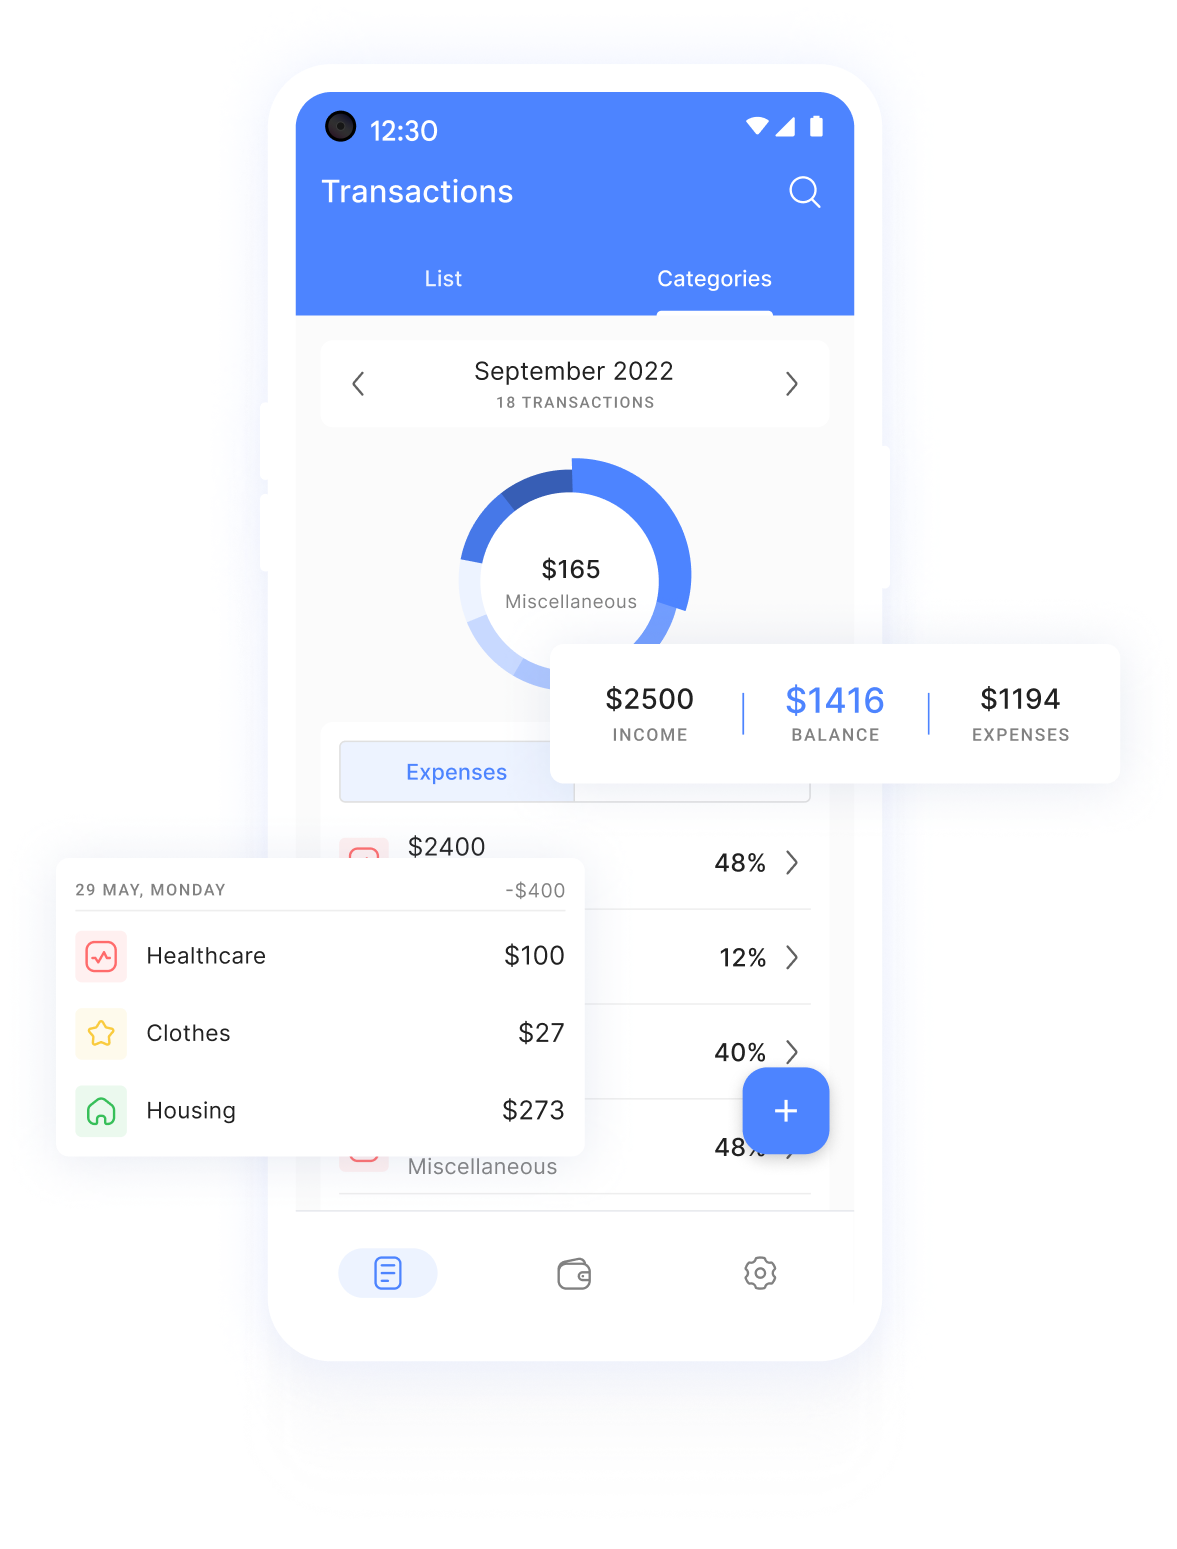
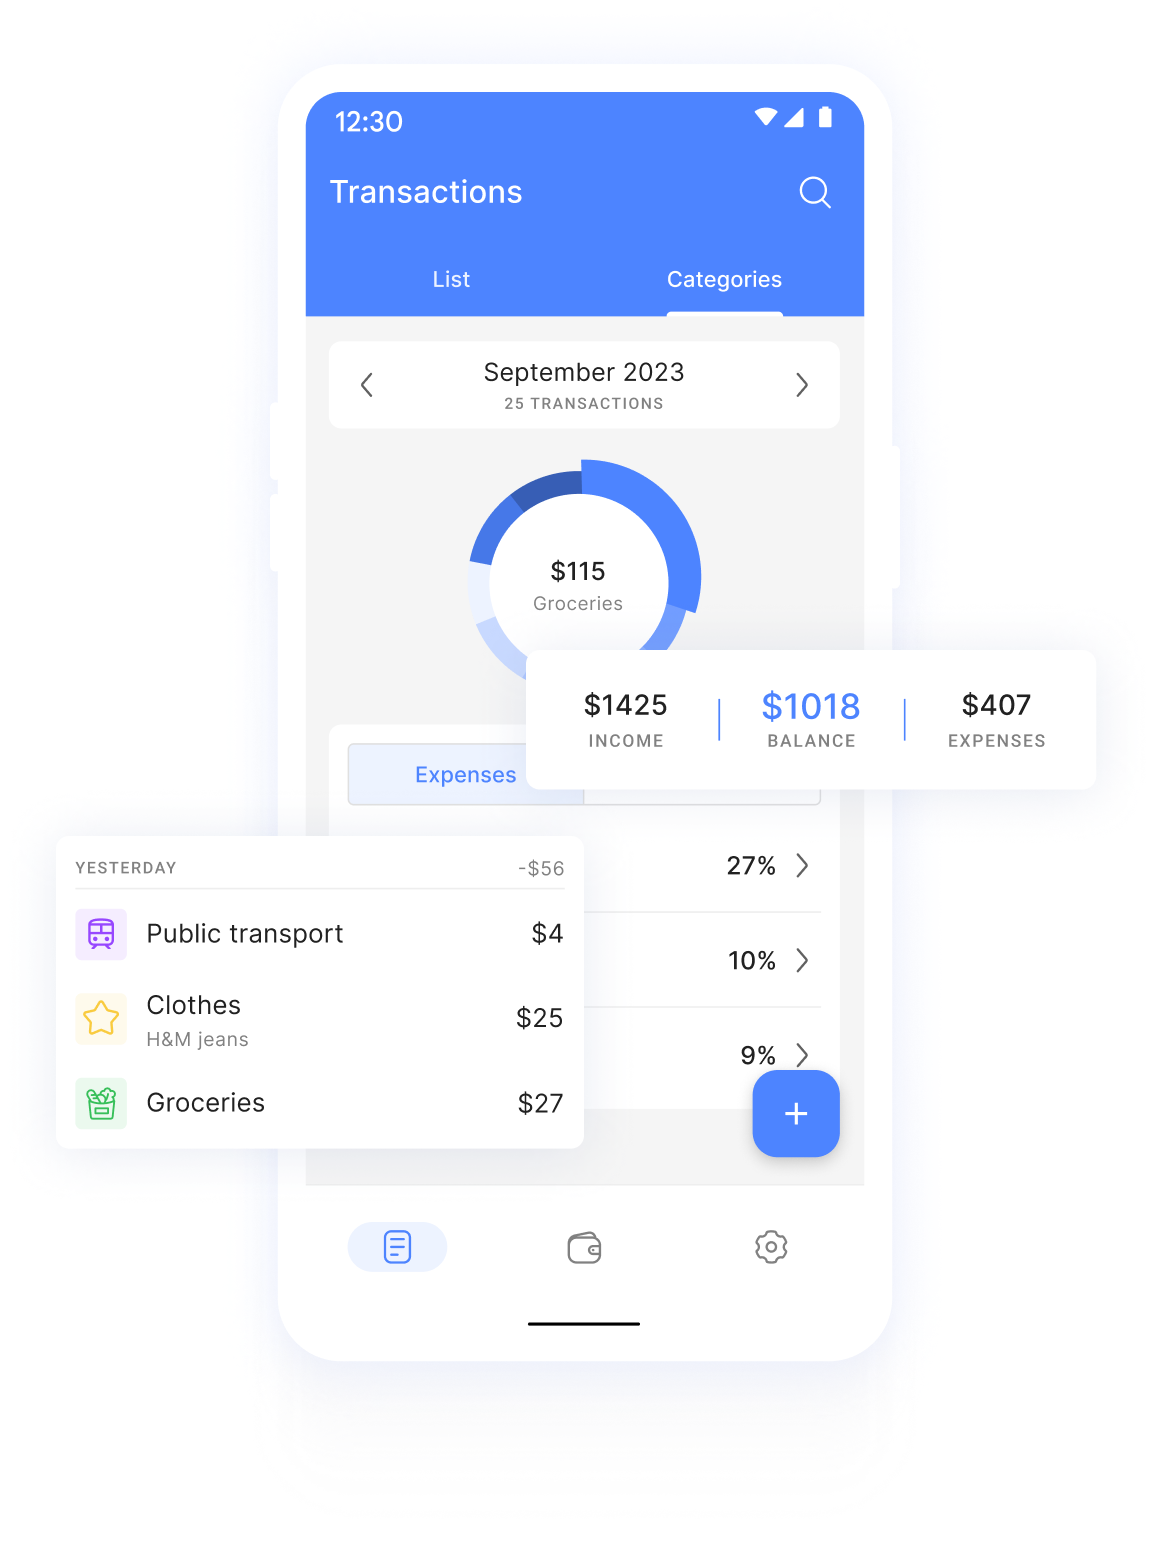
update illustrations

diff --git a/index.html b/index.html
@@ -1,5 +1,5 @@
 <!DOCTYPE html>
-<html>
+<html id="root">
 
 <link>
     <meta charset="UTF-8">
@@ -15,7 +15,7 @@
     <!-- Navigation bar -->
     <nav class="navigation-block">
         <div class="navigation-block-content">
-            <div class="logo-container"></div>
+            <a href="#root" class="logo-container"></a>
             <div class="navigation-container">
                 <a href="#about" class="navigation-link">About</a>
                 <a href="#features" class="navigation-link">Features</a>
@@ -52,9 +52,7 @@
             <div class="main-block-text">
                 <h1 class="main-block-title">Track your budget on the go</h1>
                 <span class="main-block-subtitle">Take control of your finances and stay on top of your budget with ease</span>
-                <div class="main-block-button">
-                    <img src="images/google_play.png" width="158"/>
-                </div>
+                <a class="main-block-button"></a>
             </div>
             <div class="main-block-image">
                 <img src="images/main_illustration.png"/>
@@ -134,7 +132,7 @@
                 </div>
                 
                 <div class="features-block-image">
-                    <img src="images/features_illustration.png"/>
+                    <img src="images/screenshot_4.png"/>
                 </div>
 
                 <div class="features-block-content-description">
@@ -191,34 +189,25 @@
         <div class="splide__track">
               <ul class="splide__list">
                 <li class="splide__slide">
-                    <img src="images/screenshot1.png">
+                    <img src="images/screenshot_1.png">
                 </li>
                 <li class="splide__slide">
-                    <img src="images/screenshot2.png">
+                    <img src="images/screenshot_2.png">
                 </li>
                 <li class="splide__slide">
-                    <img src="images/screenshot3.png">
+                    <img src="images/screenshot_3.png">
                 </li>
                 <li class="splide__slide">
-                    <img src="images/screenshot1.png">
+                    <img src="images/screenshot_4.png">
                 </li>
                 <li class="splide__slide">
-                    <img src="images/screenshot2.png">
+                    <img src="images/screenshot_5.png">
                 </li>
                 <li class="splide__slide">
-                    <img src="images/screenshot3.png">
+                    <img src="images/screenshot_6.png">
                 </li>
                 <li class="splide__slide">
-                    <img src="images/screenshot1.png">
-                </li>
-                <li class="splide__slide">
-                    <img src="images/screenshot2.png">
-                </li>
-                <li class="splide__slide">
-                    <img src="images/screenshot3.png">
-                </li>
-                <li class="splide__slide">
-                    <img src="images/screenshot1.png">
+                    <img src="images/screenshot_7.png">
                 </li>
             </ul>
         </div>
@@ -343,17 +332,17 @@
     <footer class="footer" id="contacts">
         <div class="footer-block">
             <div class="footer-content">
-                <img src="images/logo_text.svg" class="footer-logo"/>
+                <a href="#root" class="footer-logo"></a>
                 <div class="footer-menu">
-                    <a href="#about" class="footer-link">About</a>
-                    <a href="#features" class="footer-link">Features</a>
-                    <a href="#screenshot" class="footer-link">Screenshots</a>
-                    <a href="#pricing" class="footer-link">Pricing</a>
-                    <a href="#team" class="footer-link">Team</a>
-                    <a href="#contacts" class="footer-link">Contacts</a>
+                    <a href="#about" class="footer-navigation-link">About</a>
+                    <a href="#features" class="footer-navigation-link">Features</a>
+                    <a href="#screenshot" class="footer-navigation-link">Screenshots</a>
+                    <a href="#pricing" class="footer-navigation-link">Pricing</a>
+                    <a href="#team" class="footer-navigation-link">Team</a>
+                    <a href="#contacts" class="footer-navigation-link">Contacts</a>
                 </div>
                 <div class="footer-support-link">
-                    <a href="mailto: support@costline.app">
+                    <a href="mailto: support@costline.app" class="footer-support-link-text">
                         <img src="images/mail2.svg" class="footer-support-link-icon"/>
                         support@costline.app
                     </a>
@@ -361,9 +350,9 @@
             </div>
             <div class="footer-info">
                 © Costline 2023 | 
-                <a>Privacy policy</a> |
-                <a>Terms of Service</a> |
-                <a>Licenses</a>
+                <a class="footer-link">Privacy policy</a> |
+                <a class="footer-link">Terms of Service</a> |
+                <a class="footer-link">Licenses</a>
             </div>
         </div>
     </footer>

diff --git a/css/style.css b/css/style.css
@@ -8,6 +8,10 @@ body {
     font-family: 'Poppins', sans-serif;
 }
 
+h1, h2, h3, p, a {
+    color: #2B283D;
+}
+
 h1 {
     font-size: 60px;
     font-weight: 700;
@@ -75,7 +79,6 @@ h3 {
 }
 
 .navigation-link {
-    color: black;
     font-size: 16px;
     font-style: normal;
     font-weight: 500;
@@ -134,7 +137,6 @@ h3 {
 }
 
 .mobile-navigation-link {
-    color: black;
     font-size: 20px;
     font-style: normal;
     font-weight: 600;
@@ -190,7 +192,12 @@ h3 {
 }
 
 .main-block-button {
+    background: url(../images/google_play.png) no-repeat;
+    background-position: center;
+    background-size: cover;
+    height: 54px;
     margin-top: 36px;
+    width: 184px;
 }
 
 .main-block-image {
@@ -697,8 +704,13 @@ h3 {
 }
 
 .footer-logo {
+    display: block;
+    background: url(../images/logo_text.svg) no-repeat;
+    background-position: center;
+    background-size: contain;
     height: 24px;
-    width: 100%;
+    margin: 0 auto;
+    width: 142px;
 }
 
 .footer-support-link {
@@ -722,6 +734,10 @@ h3 {
     width: 32px;
 }
 
+.footer-support-link-text {
+    color: white;
+}
+
 .footer-menu {
     display: flex;
     flex-direction: row;
@@ -731,14 +747,14 @@ h3 {
     width: 100%;
 }
 
-.footer-link {
+.footer-navigation-link {
     color: white;
     font-size: 20px;
     font-weight: 400;
     line-height: 28px;
 }
 
-.footer-link:hover {
+.footer-navigation-link:hover {
     color: #4D84FF;
 }
 
@@ -747,6 +763,14 @@ h3 {
     margin-bottom: 40px;
     text-align: center;
     width: 100%;
+}
+
+.footer-link {
+    color: #7B788D;
+}
+
+.footer-link:hover {
+    color: white;
 }
 
 @media (max-width: 1024px) {
@@ -882,7 +906,7 @@ h3 {
     }
 
     .about-block-image {
-        background: url(../images/about_illustration_min.png) no-repeat;
+        background: url(../images/screenshot_2.png) no-repeat;
         background-position: center; 
         background-size: contain;
         height: 600px;
@@ -910,6 +934,20 @@ h3 {
 
     .team-members {
         gap: 24px;
+    }
+
+    .team-member-image {
+        margin-top: 0;
+    }
+
+    .team-member-name {
+        font-weight: 600;
+        margin-top: 32px;
+        font-size: 28px;
+    }
+
+    .team-member-contacts {
+        margin-top: 32px;
     }
 
     .footer-menu {
@@ -942,6 +980,8 @@ h3 {
     .logo-container {
         background: url(../images/logo_icon.svg) no-repeat;
         height: 32px;
+        min-height: 32px;
+        min-width: 32px;
         width: 32px;
     }
 
@@ -953,6 +993,14 @@ h3 {
         margin-top: 24px;
     }
 
+    .download-section {
+        margin: 0;
+    }
+
+    .download-block {
+        border-radius: 0;
+    }
+
     .subscription-text {
         margin-top: 16px;
     }
@@ -961,7 +1009,27 @@ h3 {
         flex-direction: column;
     }
 
+    .team-member-name {
+        margin-top: 20px;
+    }
+
+    .team-member-contacts {
+        margin-top: 20px;
+    }
+
     .footer-info {
         padding: 0 32px;
+    }
+}
+
+@media (max-width: 360px) {
+    h1 {
+        font-size: 32px;
+        line-height: 42px;
+    }
+
+    h2 {
+        font-size: 24px;
+        line-height: 32px;
     }
 }
